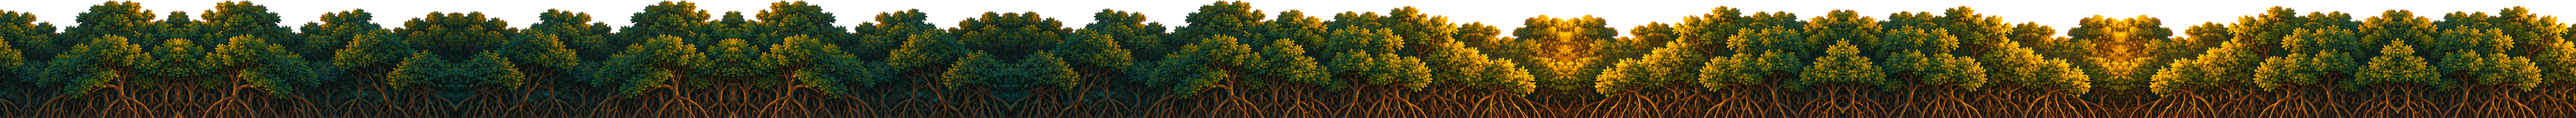
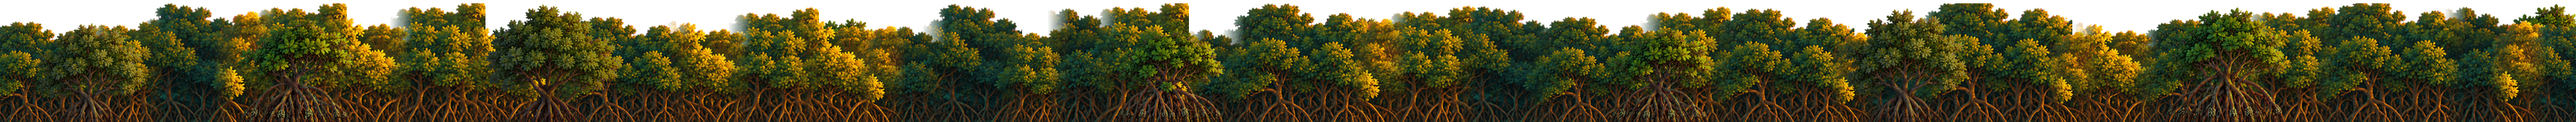
Estuário e Pantanal: faixa do meio sem repetição visível
processar_mapas_3_4.remix agora também monta o mangue do Estuário, sem
espelhar os grupos (a luz do sol fica do lado pintado), com emendas
sempre apoiadas no grupo de baixo, semente fixa por mapa e árvores
soltas (carandaás no Pantanal, mangues no Estuário) escurecidas até a
cor média da faixa.

Claude-Session: https://claude.ai/code/session_0157wnQYKqcwH1tj2jbojgJL

diff --git a/tools/Arte/processar_mapas_3_4.py b/tools/Arte/processar_mapas_3_4.py
@@ -129,7 +129,7 @@ def cut_at(img, fraction):
     return V.cut_waterline(img, fraction)
 
 
-def scenery(folder, prefix, out_folder, file_prefix, sun_world, far_units, mid_units, far_cut=None, remix_mid=False):
+def scenery(folder, prefix, out_folder, file_prefix, sun_world, far_units, mid_units, far_cut=None, remix_mid=False, extras=(), extra_size=(0.9, 1.1), extra_gap=(1.6, 3.2)):
     base = 'Mapas/%s/%s_' % (out_folder, file_prefix)
     photo = find(folder, prefix, '01')
     if photo is not None:
@@ -153,7 +153,11 @@ def scenery(folder, prefix, out_folder, file_prefix, sun_world, far_units, mid_u
         piece = P.trim(keyed(mid))
         h = int(round(mid_units * 120))
         piece = piece.resize((max(1, round(piece.width * h / piece.height)), h), Image.LANCZOS)
-        band = remix(piece, 120, seed=hash(prefix) % 1000) if remix_mid else P.extend_sideways(piece, 0.5, 0.0, (0.0, 0.5), (0.5, 1.0), 120)
+        trees = [Image.open(os.path.join(P.ART, 'Vivos/Plantas', name + '.png')).convert('RGBA') for name in extras
+                 if os.path.exists(os.path.join(P.ART, 'Vivos/Plantas', name + '.png'))]
+        # A fixed seed per map, so the same pictures always give the same band.
+        seed = sum(ord(c) for c in prefix)
+        band = remix(piece, 120, seed, trees, extra_size, extra_gap) if remix_mid else P.extend_sideways(piece, 0.5, 0.0, (0.0, 0.5), (0.5, 1.0), 120)
         P.save(band, base + 'bg_mid.png')
     for number, name in (('05', 'near_left'), ('06', 'near_right'), ('07', 'fg_left'), ('08', 'fg_right')):
         img = find(folder, prefix, number)
@@ -199,12 +203,14 @@ def cloud_sheet(rgba, prefix):
         P.save(P.fit(P.main_piece(rgba.crop(box)), (640, 320), 0.04), prefix + '_cloud_%02d.png' % (i + 1))
 
 
-def remix(piece, ppu, seed):
-    """A band of separate groups (capões) rebuilt to 26 units without a visible pattern.
+def remix(piece, ppu, seed, trees=(), tree_size=(0.9, 1.1), tree_gap=(1.6, 3.2)):
+    """A band of groups (capões, mangrove canopy) rebuilt to 26 units without a visible pattern.
 
-    The piece is cut where its silhouette is lowest (the open grass between groups), and the groups
-    are laid side by side in a shuffled order, some mirrored, each a little bigger or smaller,
-    overlapping with a soft edge. The same group never comes twice in a row.
+    The piece is cut where its silhouette is lowest (the open ground between groups), and the groups
+    are laid side by side in a shuffled order, each a little bigger or smaller, overlapping with a soft
+    edge. The same group never comes twice in a row, and nothing is mirrored (the light keeps coming
+    from the side the painter lit). Single trees from the living-landscape sheets are then scattered
+    along the band, some in front and some behind, so no stretch looks like another.
     """
     rng = np.random.default_rng(seed)
     arr = np.asarray(piece)
@@ -233,23 +239,53 @@ def remix(piece, ppu, seed):
             continue
         last = i
         g = groups[i]
-        if rng.random() < 0.5:
-            g = g.transpose(Image.FLIP_LEFT_RIGHT)
         k = float(rng.uniform(0.82, 1.08))
         g = g.resize((max(1, int(g.width * k)), max(1, int(g.height * k))), Image.LANCZOS)
-        # Soft left and right edges so neighbours blend into each other.
+        # Each group goes on top of the previous one with only its left edge faded, so the overlap is
+        # always backed by the solid group underneath (no see-through seam).
         a = np.asarray(g).astype(np.float32)
-        ramp = np.ones(g.width, dtype=np.float32)
         n = min(overlap, g.width // 3)
-        if n > 1:
+        if n > 1 and x > 0:
+            ramp = np.ones(g.width, dtype=np.float32)
             ramp[:n] = np.linspace(0, 1, n)
-            ramp[-n:] = np.linspace(1, 0, n)
-        a[..., 3] *= ramp[None, :]
+            a[..., 3] *= ramp[None, :]
         g = Image.fromarray(a.astype(np.uint8), 'RGBA')
         layer = Image.new('RGBA', canvas.size, (0, 0, 0, 0))
         layer.paste(g, (x, piece.height - g.height))
-        canvas = Image.alpha_composite(layer, canvas) if rng.random() < 0.5 else Image.alpha_composite(canvas, layer)
+        canvas = Image.alpha_composite(canvas, layer)
         x += g.width - overlap
+
+    # The single trees take the band's own light: their average colour is pulled to the band's.
+    band_rgb = np.asarray(piece).astype(np.float32)
+    solid = band_rgb[..., 3] > 200
+    target = band_rgb[..., :3][solid].mean(axis=0)
+    matched = []
+    for tree in trees:
+        t = np.asarray(tree).astype(np.float32)
+        own = t[..., :3][t[..., 3] > 200].mean(axis=0)
+        gain = np.clip(target / np.maximum(own, 1), 0.55, 1.15)
+        t[..., :3] = np.clip(t[..., :3] * gain, 0, 255)
+        matched.append(Image.fromarray(t.astype(np.uint8), 'RGBA'))
+    trees = matched
+
+    # Single trees every few units, never two of the same in a row.
+    x, last = float(rng.uniform(0.3, 1.2) * ppu), -1
+    while trees and x < total:
+        i = int(rng.integers(len(trees)))
+        if i == last and len(trees) > 1:
+            continue
+        last = i
+        tree = trees[i]
+        h = int(piece.height * rng.uniform(*tree_size))
+        tree = tree.resize((max(1, int(tree.width * h / tree.height)), h), Image.LANCZOS)
+        if h > canvas.height:
+            grown = Image.new('RGBA', (canvas.width, h), (0, 0, 0, 0))
+            grown.paste(canvas, (0, h - canvas.height))
+            canvas = grown
+        layer = Image.new('RGBA', canvas.size, (0, 0, 0, 0))
+        layer.paste(tree, (int(x - tree.width / 2), canvas.height - tree.height + int(0.04 * h)))
+        canvas = Image.alpha_composite(canvas, layer) if rng.random() < 0.6 else Image.alpha_composite(layer, canvas)
+        x += float(rng.uniform(*tree_gap) * ppu)
     return canvas
 
 
@@ -313,10 +349,12 @@ def main():
         print(__doc__)
         sys.exit(1)
     folder = sys.argv[1]
-    scenery(folder, 'Pantanal', 'PantanalDourado', 'map_pantanal_dourado', (-5.0, 1.5), 0.9, 1.25, remix_mid=True)
-    scenery(folder, 'Estuario', 'EstuarioDasMares', 'map_estuario_das_mares', (2.4, 1.8), 1.3, 1.2, far_cut=0.80)
+    living(folder)  # first: the single trees of the living landscape also go into the middle bands
+    scenery(folder, 'Pantanal', 'PantanalDourado', 'map_pantanal_dourado', (-5.0, 1.5), 0.9, 1.25, remix_mid=True,
+            extras=['carandaa_01', 'carandaa_02', 'carandaa_03', 'carandaa_04'], extra_size=(0.6, 0.85), extra_gap=(2.5, 5.0))
+    scenery(folder, 'Estuario', 'EstuarioDasMares', 'map_estuario_das_mares', (2.4, 1.8), 1.3, 1.2, far_cut=0.80, remix_mid=True,
+            extras=['mangue_01', 'mangue_02', 'mangue_03', 'mangue_04', 'mangue_05'], extra_size=(0.8, 1.05), extra_gap=(2.0, 3.6))
     fish_and_gear(folder)
-    living(folder)
     old = set()
     if os.path.exists(P.FINALS):
         old = {l.strip() for l in open(P.FINALS, encoding='utf-8') if l.strip() and not l.startswith('#')}

diff --git a/docs/BASE_TECNICA.md b/docs/BASE_TECNICA.md
@@ -279,7 +279,9 @@ antigos entram com o Barco Inicial e sem isca. Cada passo está em `SaveMigratio
     regras de tamanho estão em `docs/ASSETS_PENDENTES.md`.
   - **Arte dos mapas 3 e 4** (`tools/Arte/processar_mapas_3_4.py`): mesmo processo, com o fundo
     votado na borda inteira (verde, magenta ou azul), limpeza do magenta que vaza em partes finas, nuvens
-    lado a lado ou empilhadas, e o lado oposto espelhado quando uma margem vem sem fundo chapado. Os
+    lado a lado ou empilhadas, o lado oposto espelhado quando uma margem vem sem fundo chapado, e a faixa
+    do meio remontada (`remix`: grupos cortados nos pontos mais baixos, em ordem sorteada com semente
+    fixa, sem espelhar, e árvores soltas da paisagem viva com a cor média da faixa). Os
     animais novos (`LivingAnimals`: araras-azuis, tuiuiú, colhereiros, guarás, trinta-réis, caranguejo,
     boto) reaproveitam os comportamentos existentes com outra arte.
   - **Arte final do proprietário** (`tools/Arte/processar_pedidos.py`): recorta as imagens do ChatGPT

diff --git a/docs/CHANGELOG.md b/docs/CHANGELOG.md
@@ -13,6 +13,12 @@ raiz do repositório, que o servidor serve em `GET /api/dev/version`.
   trinta-réis, caranguejo chama-maré e boto-cinza; carandaás, aguapés e plantas de mangue.
 - `tools/Arte/processar_mapas_3_4.py` para colocar as imagens no jogo.
 
+### Mudado
+
+- A faixa do meio do Pantanal (capões) e do Estuário (mangue) não é mais a mesma imagem repetida e
+  espelhada: os grupos são remontados em ordem sorteada, sem espelhar (a luz fica do lado certo), e
+  carandaás e mangues soltos entram no meio com a cor da faixa.
+
 ### Pendente
 
 - Refazer Pantanal 06 (veio sem fundo chapado) e Pantanal 16 (arquivo vazio); Novo 03 (ícones) não
